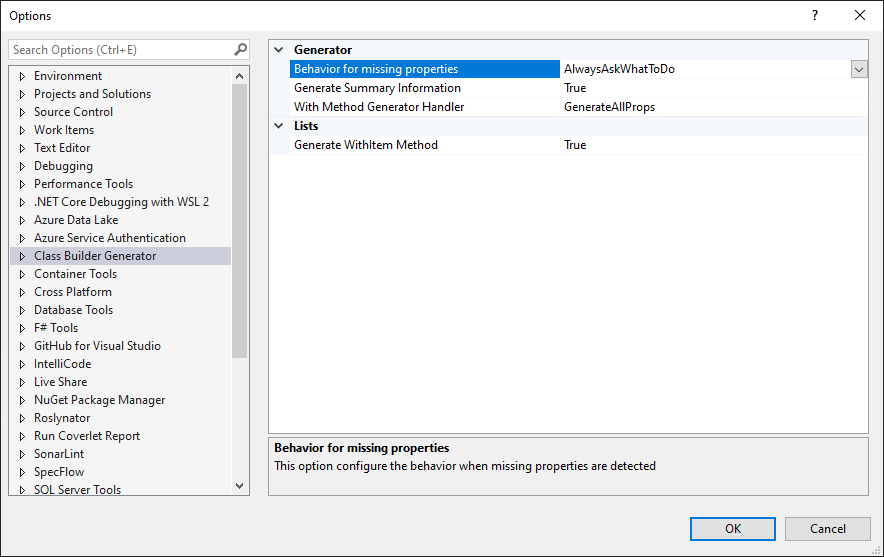
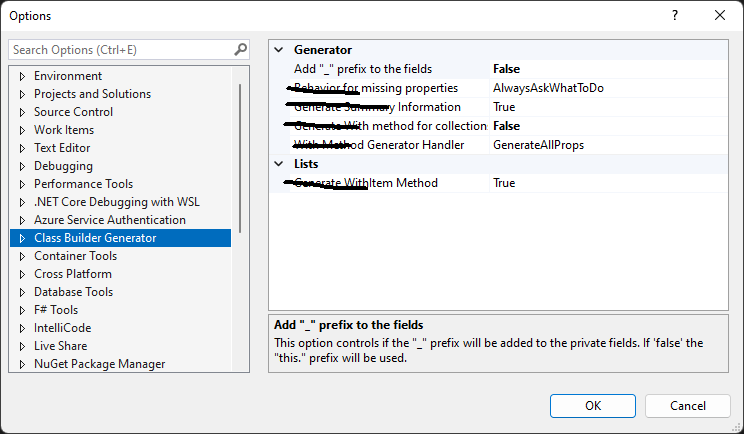
Updated README

diff --git a/Options/ClassBuilderGeneratorOptions.cs b/Options/ClassBuilderGeneratorOptions.cs
@@ -42,7 +42,7 @@ namespace ClassBuilderGenerator.Options
 
         [Category("Generator")]
         [DisplayName("Add \"_\" prefix to the fields")]
-        [Description("This option controls if the \"_\" prefix will be added to the private fields")]
+        [Description("This option controls if the \"_\" prefix will be added to the private fields. If 'false' the \"this.\" prefix will be used.")]
         [DefaultValue(true)]
         public bool AddUnderscorePrefixToTheFields { get; set; } = false;
     }

diff --git a/README.md b/README.md
@@ -173,6 +173,51 @@ Options:
 - True
 - False
 
+#### **Generator - Add "_" prefix to the fields**
+
+<p>This option controls if the "_" prefix will be added to the private fields. It 'false' the "this." will be used</p>
+
+Options:
+- True
+- False
+
+Example when 'true':
+```c#
+...
+public string _firstName;
+public string _lastName;
+public int _age;
+public string _email;
+...
+
+public void UserBuilder WithFirstName(string firstName)
+{
+  _firstName = firstName;
+  return this;
+}
+
+...
+
+```
+
+Example when 'false':
+```c#
+...
+public string firstName;
+public string lastName;
+public int age;
+public string email;
+...
+
+public void UserBuilder WithFirstName(string firstName)
+{
+  this.firstName = firstName;
+  return this;
+}
+
+...
+```
+
 #### **Lists - Generate WithItem method**
 
 <p>This option specifies if the generator will create or not a WithItem method to add a single item into the list/collection property.</p>
@@ -238,6 +283,7 @@ Currently this behavior (WithItem) only supports properties with types: **List**
 | `1.5` | 02/01/2022 | Added support for VS 2022 |
 | `1.5.1` | 02/02/2022 | - Added a config option to enable or disable the generation of With methods for collections <br> - Now WithItem supports types like Dictionary and Collection |
 | `1.5.2`| 07/19/2022 | Fixed the release notes link |
+| `1.5.3`| 09/06/2022 | Now the dev can choose to add or not the "_" prefix to the fields.  |
 
 <p align="center">
 <br/><br/>Did you find a <b>bug</b> or have a <b>suggestion</b> to make?<br/>Use the <b>issue tracker</b> to send all the necessary information and as soon as possible I will analyze it.<br/><br/>Thank you!
